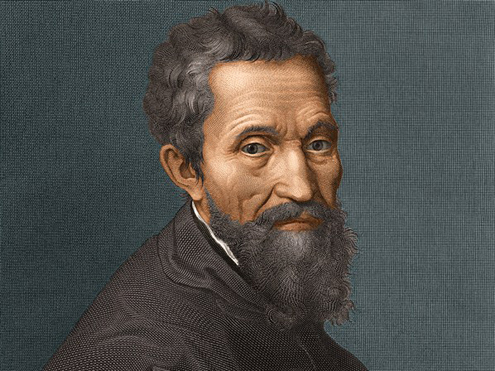
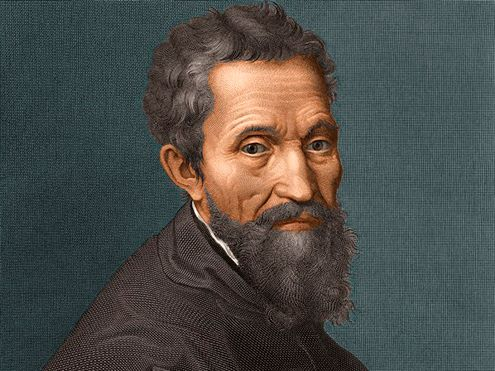
cambiamos formatos

diff --git a/main.html b/main.html
@@ -60,19 +60,19 @@
                     </div>
                     <div class="carousel-inner">
                       <div class="carousel-item active">
-                        <img src="Static/Images/miguel angel.jpg" class="d-block" alt="Miguel Angel">
+                        <img src="Static/Images/miguel angel.jpg" class="d-block w-100" alt="Miguel Angel">
                         <div class="carousel-caption d-none d-md-block">
                           <h5>Miguel Angel</h5>
                         </div>
                       </div>
-                      <div class="carousel-item">
-                        <img src="Static/Images/pablo picasso.jpg" class="d-block" alt="Pablo Picasso">
+                      <div class="carousel-item ">
+                        <img src="Static/Images/pablo picasso.jpg" class="d-block w-100" alt="Pablo Picasso">
                         <div class="carousel-caption d-none d-md-block">
                           <h5>Pablo Picasso</h5>
                         </div>
                       </div>
                       <div class="carousel-item">
-                        <img src="Static/Images/vincent van gogh.jpg" class="d-block" alt="Vincent Van Gogh">
+                        <img src="Static/Images/vincent van gogh.jpg" class="d-block w-100" alt="Vincent Van Gogh">
                         <div class="carousel-caption d-none d-md-block">
                           <h5>Vincent Van Gogh</h5>
                         </div>

diff --git a/Static/CSS/main.css b/Static/CSS/main.css
@@ -3,8 +3,11 @@ html{
     margin: 0;
     padding: 0;
 }
+
 .d-block{
-    width:100%;
-    height: 600px;
+
+    min-height: 210px;
+    max-height: 658px;
     margin: 2%;
 }
+
